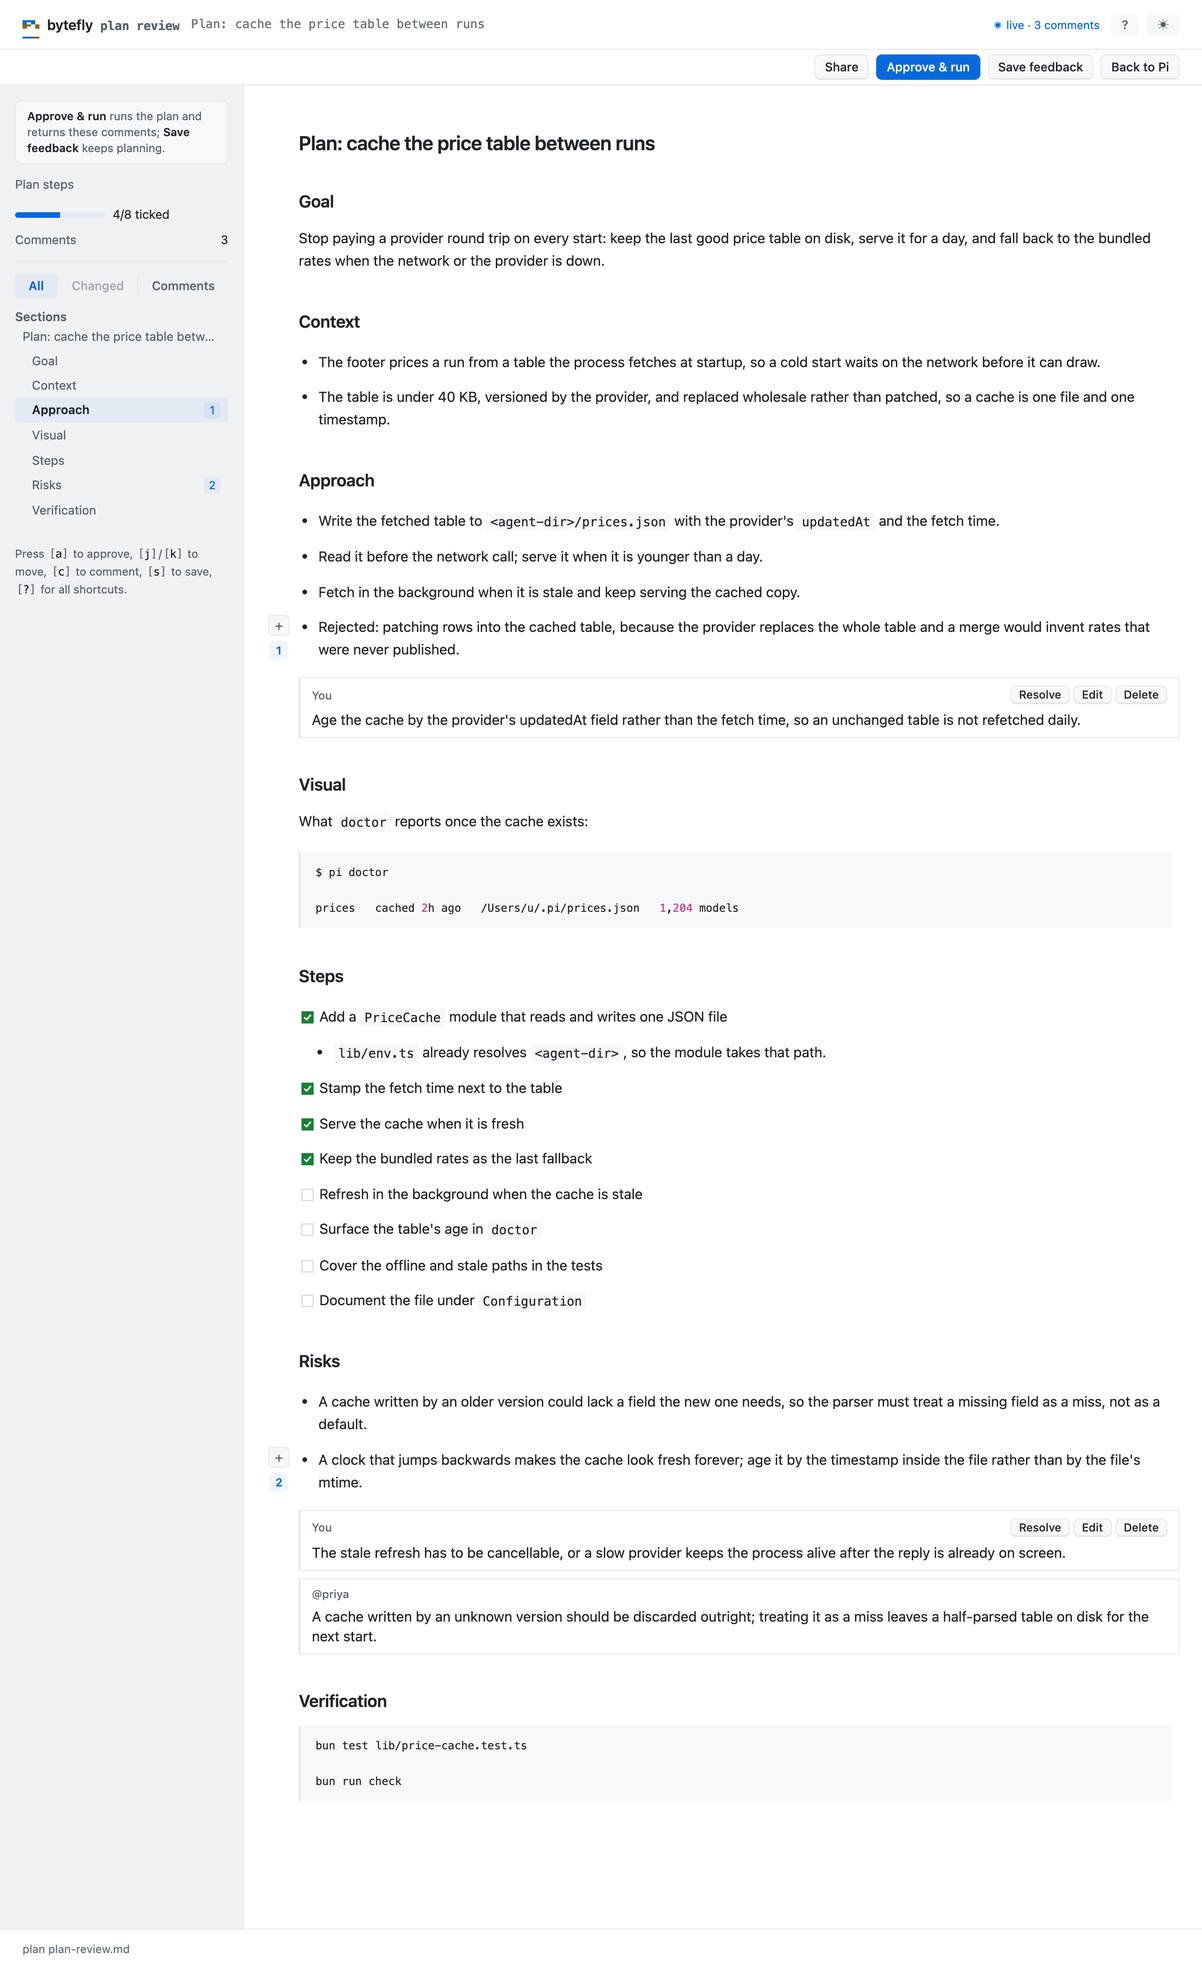
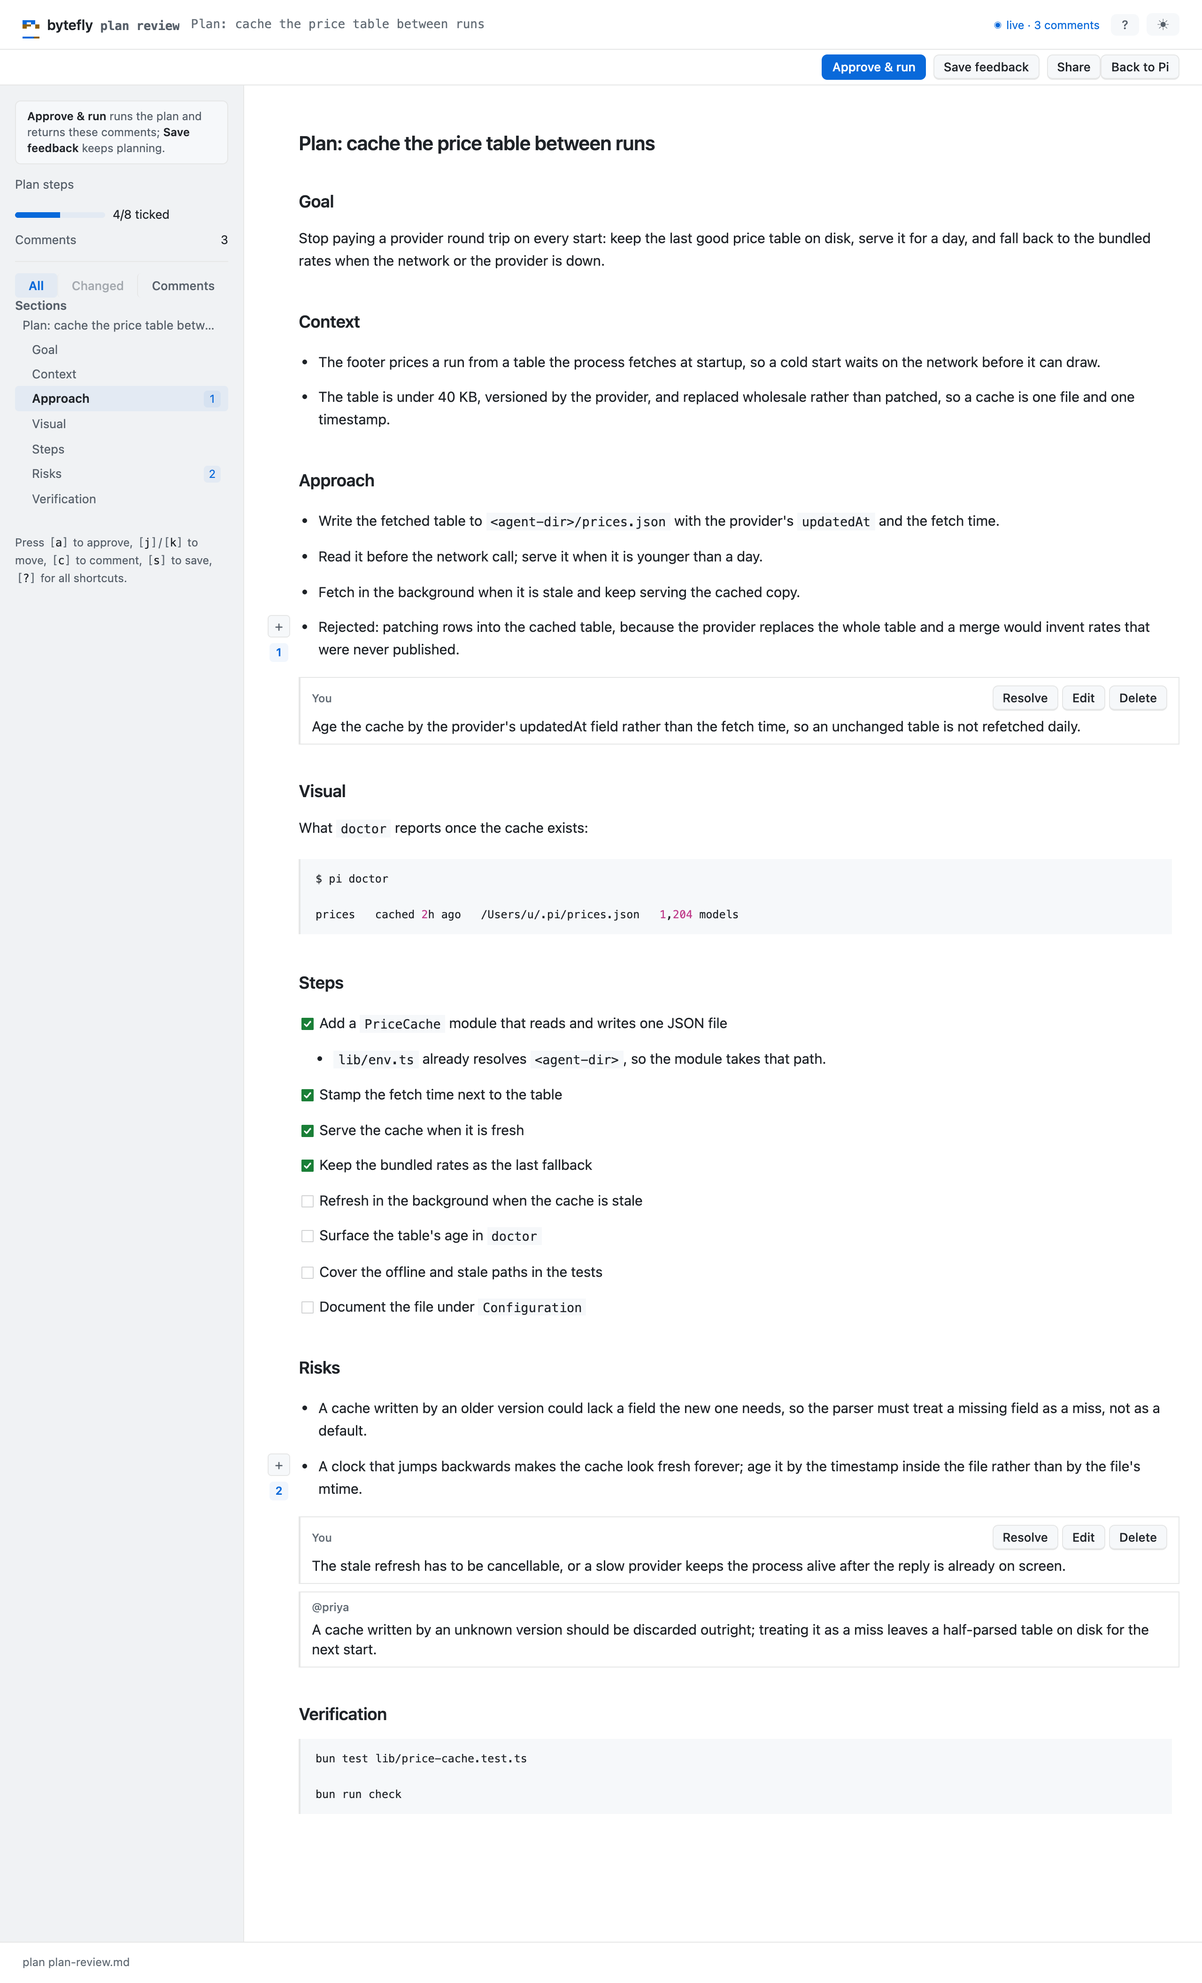
feat(plan): give the narrow review its screen
At 420px the open Sections band put the plan pane at y=391 of 900, and the band owned
the view switch, so folding it away took the filter with it — a filtered plan that read
as a short one. The rail is now two parts: what stays reachable (the finish block, the
facts, the switch and its count) and the sections list a reader folds.

Measured on the shipped page at 420: the pane starts at 317 instead of 391, the list is
shut on boot, and keeping the switch and its count costs the band 38 of those pixels —
a trade the card asked for rather than a saving. The collapse is still 1180, the width
the shell already used; no new breakpoint enters the shared sheet.

The composer's textarea takes the kit's `font:inherit`, which is the document's 15px, so
iOS zooms the whole page on focus; this page names 16px for its two fields. Below 640 the
row folds Share and Back to Pi behind a More details — transparent above that width, so
the wide row keeps every action, and the order becomes Approve & run, Save feedback,
Share, Back to Pi, primary first, which is why the frame moves.

The details is open in the markup because a closed one hides its children whatever their
display; the client shuts it on a phone at boot. The same boot closes the sections list
under 1180 and never again, so a reader who opens it is not fought — accepted, and said
in the comment, rather than closed on every resize.

Recaptured at 1280: 2560x4224, so the tag names 1280x2112, and the alt now reads the
[…]

diff --git a/extensions/plan/web-page.ts b/extensions/plan/web-page.ts
@@ -42,7 +42,17 @@ export type { ReviewOutlineItem, ReviewPageData } from "./web-payload.ts";
  * The review keeps the shell's collapse at its own width: its outline is long and its document
  * needs the height, so the band arrives earlier than the shell's sidebar does on browse.
  */
-const PLAN_COLLAPSE_MAX = 1180;
+export const PLAN_COLLAPSE_MAX = 1180;
+
+/**
+ * Viewport width, at and below which the control row folds sharing and closing behind one
+ * control.
+ *
+ * The row holds four actions and a phone holds none of them comfortably: two are what a reader
+ * came to do, and the other two can wait behind a menu that opens over the document rather than
+ * growing a header that already owns 174px of the screen.
+ */
+export const MORE_ACTIONS_MAX = 640;
 
 /** Page styles: the kit's four layers, then the review's own rules. */
 export const REVIEW_CSS = pageSheet(
@@ -87,6 +97,17 @@ export const REVIEW_CSS = pageSheet(
    section outline, then the keys. */
 .bf-app__body--single{grid-template-columns:minmax(0,1fr)}
 .review-panel{display:flex;flex-direction:column;gap:var(--space-3);padding:var(--space-4) var(--space-4) var(--space-2)}
+/* The rail is two parts: what a reader can still reach with the outline shut — the finish block,
+   the facts, the switch and its count — and then the sections list they fold away. The shell
+   collapses the sidebar into a band at 1180, so while the list owned the switch a folded list
+   took the filter with it: the count then read as a shorter plan rather than a filtered one. */
+.review-outline{display:flex;flex-direction:column;min-width:0}
+.review-panel--head{padding-bottom:0}
+.review-outline .review-sections{display:flex;flex-direction:column;min-height:0}
+.review-outline .review-sections>.review-panel{padding-top:0}
+/* The kit's open glyph reads the sidebar's own open attribute; here the disclosure is the nested
+   list, and above the collapse the summary is hidden either way. */
+.review-outline .review-sections[open]>.bf-panel__summary::before{content:"\\25BE"}
 .review-facts{display:flex;flex-direction:column;gap:var(--space-2);padding-bottom:var(--space-3);border-bottom:1px solid var(--border)}
 .review-fact{display:flex;flex-wrap:wrap;align-items:center;justify-content:space-between;gap:var(--space-3);font-size:var(--fs-sm);color:var(--muted)}
 /* The label is one word or two, never a column: squeezed by the value beside it, it broke
@@ -124,6 +145,26 @@ export const REVIEW_CSS = pageSheet(
 .review-nav .lvl-4 a,.review-nav .lvl-5 a,.review-nav .lvl-6 a{padding-left:42px}
 .review-hints{margin:auto 0 0;padding-top:var(--space-3);color:var(--muted);font-size:var(--fs-xs);line-height:var(--lh-relaxed)}
 .review-hints .bf-kbd{margin:0 1px}
+/* A comment field under 16px makes iOS zoom the whole page on focus. The kit's textarea inherits
+   the document's body size, so this page names the one size a field on a phone needs. */
+.bf-composer .bf-textarea,.bf-comment .bf-textarea{font-size:16px}
+/* Sharing and closing are the two actions a narrow page can afford to put away — a comment in a
+   served sheet is shipped text, so it names the role rather than a button's words. Above 640 the
+   details is transparent, so the row is still every action it was; at and below it, the panel
+   opens over the document rather than growing a header that already owns 174px of a phone. */
+/* An open details is what makes its children laid out at all: a closed one hides them whatever
+   their display, so the wide row keeps it open and the client shuts it on a phone. */
+.review-more[open]{display:contents}
+.review-more__summary{display:none}
+.review-more__panel{display:contents}
+@media (max-width:${MORE_ACTIONS_MAX}px){
+.review-more[open]{display:block;position:relative}
+.review-more__summary{display:inline-flex;align-items:center;gap:var(--space-2)}
+.review-more__summary::after{content:"\\25BE"}
+.review-more>.review-more__panel{display:none}
+.review-more[open]>.review-more__panel{display:flex;flex-direction:column;gap:var(--space-2);position:absolute;right:0;top:calc(100% + var(--space-2));z-index:2;min-width:190px;padding:var(--space-2);border:1px solid var(--border);border-radius:var(--radius-md);background:var(--raised);box-shadow:var(--shadow-2)}
+.review-more[open]>.review-more__panel .bf-btn{justify-content:flex-start}
+}
 /* The reader's shortcut switch: the sheet documents the keys, so its off state is a row
    under them rather than a setting elsewhere. The list dims; the buttons still act. */
 .bf-keys__toggle{display:flex;align-items:center;gap:var(--space-2);margin:var(--space-2) 0 0;padding:var(--space-2) 0 0;border-top:1px solid var(--border);color:var(--muted);font:var(--fs-sm) var(--font-ui);cursor:pointer}
@@ -325,9 +366,8 @@ export function renderReviewPage(data: ReviewPageData): string {
 <div class="review-identity"><button type="button" class="bf-btn bf-btn--ghost" id="reviewer-name" hidden></button></div>`
 			: "";
 	const outlinePanel = hasOutline
-		? `<details class="bf-app__sidebar review-outline" open>
-<summary class="bf-panel__summary">Sections</summary>
-<div class="bf-panel review-panel">
+		? `<div class="bf-app__sidebar review-outline">
+<div class="bf-panel review-panel review-panel--head">
 ${finishBlock(data.role, data.canApprove)}${identity}
 ${reviewFacts(data.role)}
 <div class="bf-tabs review-view" role="group" aria-label="What to show" id="review-view">
@@ -336,10 +376,15 @@ ${reviewFacts(data.role)}
 <button type="button" class="bf-tabs__item" data-view="comments" aria-pressed="false">Comments</button>
 </div>
 <p class="review-note" id="review-note" aria-live="polite"></p>
+</div>
+<details class="review-sections" id="review-sections" open>
+<summary class="bf-panel__summary">Sections</summary>
+<div class="bf-panel review-panel">
 <nav class="review-nav" aria-labelledby="outline-title"><p class="review-nav__title" id="outline-title">Sections</p><ul id="outline-list"></ul></nav>
 ${reviewHints(data.role, data.canApprove)}
 </div>
 </details>
+</div>
 `
 		: "";
 	// Approve is the decisive action, so it takes the primary button and the
@@ -364,7 +409,19 @@ ${reviewHints(data.role, data.canApprove)}
 		: "";
 	// Sharing belongs to the owner; a reviewer's identity is a row in the panel.
 	const shareControl = isOwner ? `<button type="button" class="bf-btn" id="share">Share</button>` : "";
-	const controls = `${shareControl}${approveButton}${saveControl}${closeControl}`;
+	// Sharing and closing are the two actions a phone can afford to put behind one control: the
+	// details is transparent above 640 (see REVIEW_CSS), so the wide row keeps both buttons, and
+	// below it they open over the document instead of growing the header.
+	const aside = `${shareControl}${closeControl}`;
+	const moreControl =
+		aside === ""
+			? ""
+			: `
+<details class="review-more" id="review-more" open>
+<summary class="bf-btn review-more__summary" aria-label="More actions">More</summary>
+<div class="review-more__panel">${aside}</div>
+</details>`;
+	const controls = `${approveButton}${saveControl}${moreControl}`;
 	// One name for the page, read from the role: a view is not a review, and the tab, the
 	// toolbar lockup, and the section of the docs that explains it must not disagree.
 	const pageName = isViewer ? "plan view" : "plan review";

diff --git a/extensions/plan/web-narrow.test.ts b/extensions/plan/web-narrow.test.ts
@@ -162,3 +162,140 @@ describe.skipIf(REVIEW_CHROME === undefined)("a fenced line at a narrow width", 
 		await page.close();
 	});
 });
+
+/**
+ * The narrow review itself: what the chrome costs the document, and which control answers.
+ *
+ * Every case here reads a box or a computed style, because the defects this card fixes are
+ * invisible to a class name — a list that folds and takes the filter with it, a field that is
+ * 15px, and a row that hides an action behind a menu are all still "present" in the markup.
+ *
+ * The bounds are today's measurements with room, and the comment names the number each one
+ * replaces: at 420 the open band put the plan pane at y=391 of 900 (jack's measurement on
+ * #708), and the switch and its count cost the band 38px of the 317 it now sits at.
+ */
+describe.skipIf(REVIEW_CHROME === undefined)("the narrow review", () => {
+	let mount: ReviewMount;
+	let browser: TestBrowser;
+
+	beforeAll(async () => {
+		mount = await mountReview(REVIEW_PAGE);
+		browser = await launchReviewBrowser();
+	}, 30_000);
+
+	afterAll(async () => {
+		await browser?.close();
+		await mount?.close();
+	}, 30_000);
+
+	/** A tab on the served review at one width, with its blocks painted. */
+	async function open(width: number): Promise<Page> {
+		const page = await browser.newPage({ viewport: { width, height: 900 }, reducedMotion: "reduce" });
+		await page.goto(mount.url, { waitUntil: "load" });
+		await page.waitForSelector("#plan .bf-block", { timeout: REVIEW_PAINT_MS });
+		return page;
+	}
+
+	/** The facts one case reads, measured in the page rather than described by a class. */
+	interface Skin {
+		sectionsOpen: boolean;
+		moreOpen: boolean;
+		planTop: number;
+		viewTop: number;
+		viewInSection: boolean;
+		noteInSection: boolean;
+		shareTop: number;
+		shareVisible: boolean;
+		rowTop: number;
+		rowBottom: number;
+	}
+
+	async function skin(page: Page): Promise<Skin> {
+		return page.evaluate(() => {
+			const doc = (globalThis as unknown as { document: any }).document;
+			const box = (node: any): { top: number; bottom: number; height: number } => {
+				const rect = node.getBoundingClientRect();
+				return { top: Math.round(rect.top), bottom: Math.round(rect.bottom), height: Math.round(rect.height) };
+			};
+			const sections = doc.getElementById("review-sections");
+			const view = doc.getElementById("review-view");
+			const note = doc.getElementById("review-note");
+			const share = doc.getElementById("share");
+			const row = doc.querySelector(".review-actions");
+			return {
+				sectionsOpen: sections ? sections.open : false,
+				moreOpen: doc.getElementById("review-more")?.open ?? false,
+				planTop: box(doc.getElementById("plan")).top,
+				viewTop: view ? box(view).top : -1,
+				viewInSection: view ? sections.contains(view) : true,
+				noteInSection: note ? sections.contains(note) : true,
+				shareTop: share ? box(share).top : -1,
+				shareVisible: share ? box(share).height > 0 : false,
+				rowTop: box(row).top,
+				rowBottom: box(row).bottom,
+			};
+		});
+	}
+
+	test("folds the sections list at 420 and keeps the filter and its count", async () => {
+		const page = await open(420);
+		const shape = await skin(page);
+		// 391 was the open band's pane top on the old markup; the list now starts shut.
+		expect(shape.sectionsOpen, "the list starts shut on a phone").toBe(false);
+		expect(shape.planTop, `the document starts above 391, at ${shape.planTop}`).toBeLessThan(391);
+		// The switch is the page's filter, so it cannot live inside the list it survives.
+		expect(shape.viewInSection, "the switch is outside the sections list").toBe(false);
+		expect(shape.noteInSection, "the count is outside the sections list").toBe(false);
+		expect(shape.viewTop, "the switch is above the document").toBeLessThan(shape.planTop);
+		await page.close();
+	});
+
+	test("leaves the list open at 1280, where the rail is a column", async () => {
+		const page = await open(1280);
+		const shape = await skin(page);
+		expect(shape.sectionsOpen, "a desk keeps the outline open").toBe(true);
+		// Beside, not above: the plan pane starts at the band's own top, not below it.
+		expect(shape.planTop, "the document sits beside the rail").toBeLessThan(200);
+		await page.close();
+	});
+
+	test("sets a comment field at 16px, so a phone does not zoom on focus", async () => {
+		const page = await open(420);
+		await page.click("#plan .bf-block .bf-block__add", { timeout: REVIEW_PAINT_MS });
+		await page.waitForSelector(".bf-composer textarea", { timeout: REVIEW_PAINT_MS });
+		const size = await page.evaluate(() => {
+			const doc = (globalThis as unknown as { document: any; getComputedStyle: any }).document;
+			const style = (globalThis as unknown as { getComputedStyle: any }).getComputedStyle;
+			const area = doc.querySelector(".bf-composer textarea");
+			return area ? Number.parseFloat(style(area).fontSize) : 0;
+		});
+		expect(size, "the kit inherits the 15px body size; the field names 16").toBe(16);
+		await page.close();
+	});
+
+	test("folds sharing and closing behind one control at 640, and shows them when it opens", async () => {
+		const page = await open(640);
+		const shut = await skin(page);
+		expect(shut.moreOpen, "the row starts folded").toBe(false);
+		expect(shut.shareVisible, "a folded action draws nothing").toBe(false);
+
+		await page.click("#review-more > summary");
+		const openShape = await skin(page);
+		expect(openShape.moreOpen).toBe(true);
+		expect(openShape.shareVisible, "the menu draws the action once opened").toBe(true);
+		expect(openShape.shareTop, "the menu covers the document rather than the header's height").toBeGreaterThanOrEqual(
+			shut.rowTop,
+		);
+		await page.close();
+	});
+
+	test("keeps both actions in the row at 1280", async () => {
+		const page = await open(1280);
+		const shape = await skin(page);
+		expect(shape.moreOpen, "the wide row is not a menu").toBe(true);
+		expect(shape.shareVisible, "the action is drawn without opening anything").toBe(true);
+		expect(shape.shareTop, "and it sits in the control row").toBeGreaterThanOrEqual(shape.rowTop);
+		expect(shape.shareTop).toBeLessThan(shape.rowBottom);
+		await page.close();
+	});
+});

diff --git a/extensions/plan/web-client.ts b/extensions/plan/web-client.ts
@@ -40,6 +40,7 @@ import { WEB_OUTLINE_JS } from "./web-outline.ts";
 import { WEB_KEYS_JS } from "./web-keys.ts";
 import { WEB_PLAN_JS } from "./web-plan.ts";
 import { WEB_SETTLE_JS } from "./web-settle.ts";
+import { MORE_ACTIONS_MAX, PLAN_COLLAPSE_MAX } from "./web-page.ts";
 
 export const REVIEW_CLIENT_JS = String.raw`(function () {
   "use strict";
@@ -580,6 +581,18 @@ ${WEB_CONFIRM_JS}
   // and the composer it was typing into, which needs the blocks rendered first. A viewer
   // writes nothing, so it has no draft to keep and none to restore.
   var restoredTyping = role === "viewer" ? undefined : restoreDraft();
+  // The sections list starts shut under the width where the shell turns the rail into a band: the
+  // switch and its count sit above it, so a reader keeps the filter while the document gets the
+  // screen. Once, at boot — a reader who opens it afterwards is not fought by a repaint, and one
+  // who shrinks the window keeps what they had, which is the trade this line spends.
+  var sectionsList = document.getElementById("review-sections");
+  if (sectionsList && window.matchMedia && window.matchMedia("(max-width:${PLAN_COLLAPSE_MAX}px)").matches)
+    sectionsList.open = false;
+  // The row's two quieter actions fold behind one control on a phone; the details is open by
+  // default so a wide row lays its buttons out, and shut here so a narrow one starts folded.
+  var moreActions = document.getElementById("review-more");
+  if (moreActions && window.matchMedia && window.matchMedia("(max-width:${MORE_ACTIONS_MAX}px)").matches)
+    moreActions.open = false;
   setupShortcuts();
   renderName();
   renderAll();

diff --git a/docs/tutorials/first-plan.md b/docs/tutorials/first-plan.md
@@ -64,7 +64,7 @@ the quoted text, so another reader sees the note without it. The `+` is
 announced by its block — *Comment on “Approach”* — and it is drawn only while the
 review can still take a comment — a settled review has none.
 
-<img src="../../assets/screens/plan-review.png" alt="The review page in a browser: a plan title bar with live, quick keys, and the theme toggle; the page's own actions — Share, Approve and run, Save feedback, Back to Pi — in a second header row under it; a rail holding the All, Changed and Comments tabs above the plan's steps and sections; the plan body with a comment being written in its margin; and the plan's checklist drawn as ticked boxes" width="1280" height="2098">
+<img src="../../assets/screens/plan-review.png" alt="The review page in a browser: a plan title bar with the live chip, the shortcut key and the theme toggle; the page's own actions — Approve and run, Save feedback, Share, Back to Pi — in a second header row under it; a rail holding the finish sentence, the plan's step progress and comment total, the All, Changed and Comments switch, the sections list and the shortcut hints; the plan body with two comment threads in their margins, each with Resolve, Edit and Delete; and the plan's checklist drawn as ticked boxes" width="1280" height="2112">
 
 *The review page: the plan's sections in the rail, the comments in the margin,
 and the approval at the top.*

diff --git a/CHANGELOG.md b/CHANGELOG.md
@@ -6,6 +6,11 @@ to [Semantic Versioning](https://semver.org/spec/v2.0.0.html).
 
 ## [Unreleased]
 
+- `plan`: at a narrow width the review gives the document the screen. At 1180px and below the
+  sections list starts shut, and the view switch and its count sit above it rather than inside,
+  so folding the outline no longer takes the filter with it; a comment field is 16px, which stops
+  iOS zooming the page on focus; and at 640 and below Share and Back to Pi fold behind a **More**
+  menu, leaving the row reading Approve & run, Save feedback, More.
 - `plan`: a comment control names its block. Each rail `+` is announced as *Comment on “…”*, the
   count carries its own name, a thread reads as a list, and the rail and card actions reach 24px;
   a write leaves focus on the card it changed, or on the block's `+` when the last comment goes.

diff --git a/docs/extensions/plan.md b/docs/extensions/plan.md
@@ -94,8 +94,9 @@ that changes. A delegated agent runs with writing forced off.
 - A plan holds at most 50 steps and 256 KiB; a bigger one is refused, not trimmed.
 - Plan mode has no PowerShell on Windows: Git Bash is the shell, and it must be installed.
 - The browser review needs `serve` and a local browser; a reviewer's page is only reachable
-  while its link is shared. At 640px and below the sections panel collapses above the
-  document, so the count under the switch scrolls away with it.
+  while its link is shared. At 1180px and below the sections list folds above the document
+  and starts shut, while the switch and its count stay in view; below 640 the four actions
+  become two and a **More** menu.
 - The plans directory is the only index — nothing deletes a plan for you.
 
 ## Settings
